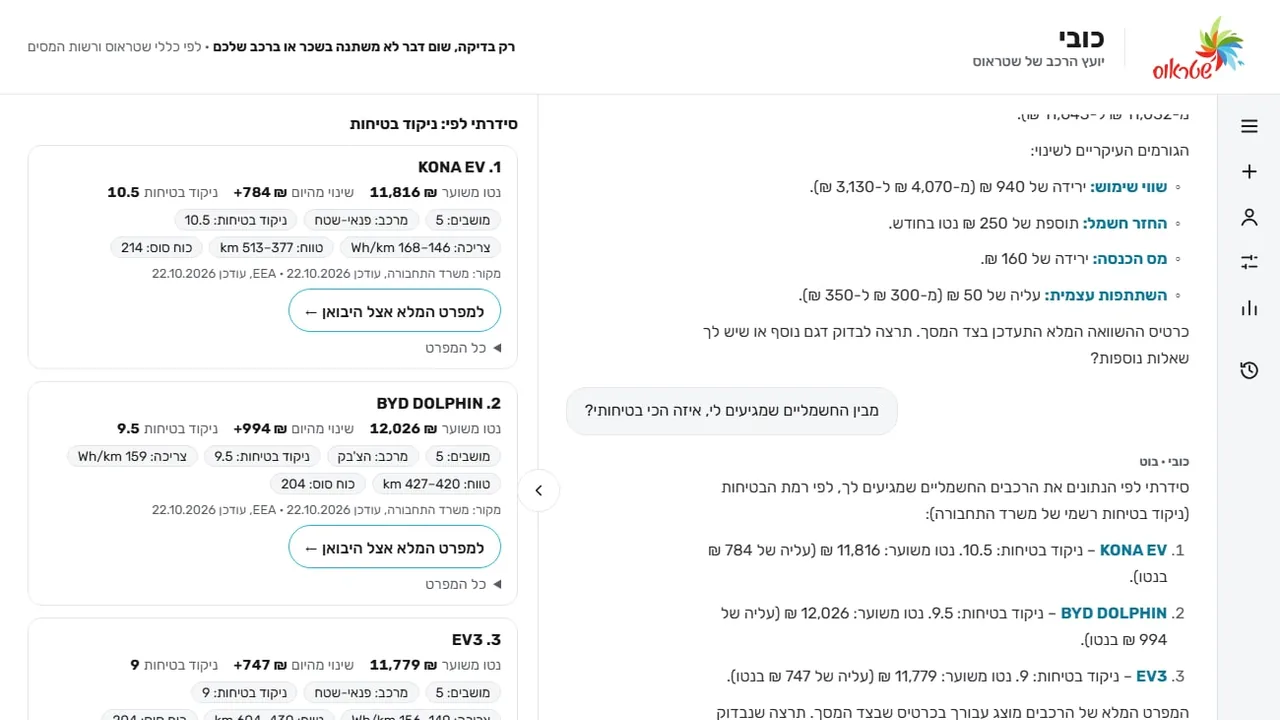
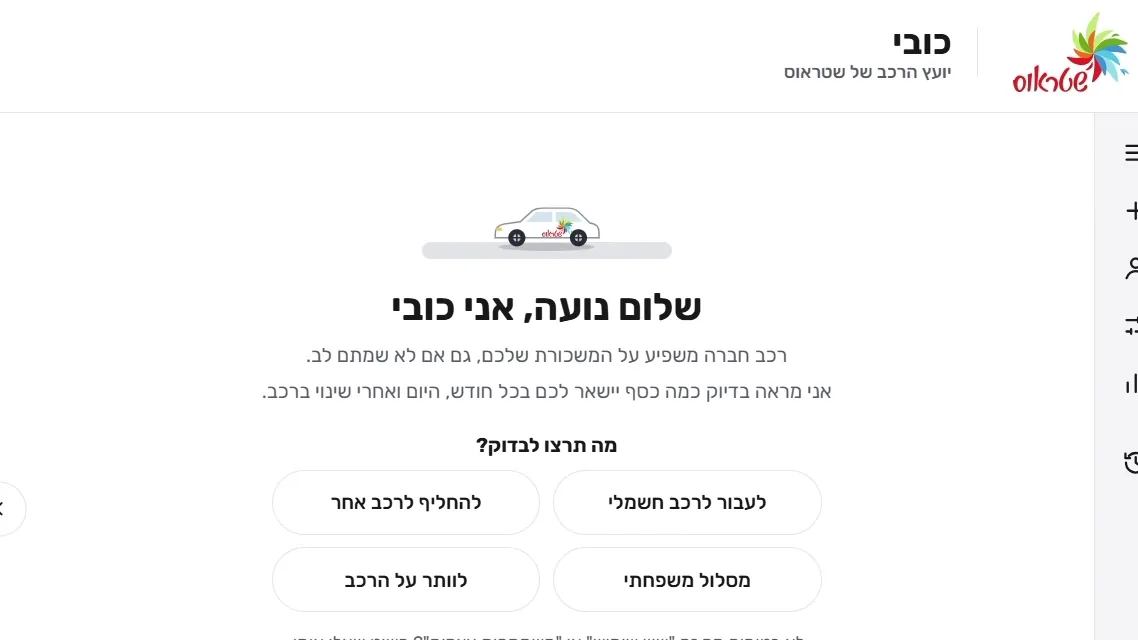
פורטל שני: בלי טקסט למעלה - לוגו ההאקתון קופץ ליד המספרים; כרטיסי הזוכות קטנים יותר; בלי ״איך זה עבד״; הכפתור בפס העליון אומר מה הוא עושה
- למעלה: הלוגו של ההאקתון עם ההנפשה של חלון הכרטיסים (Web Animations, זז גם כשהמערכת כיבתה אנימציות) בצד, חמשת המספרים ושלושת כרטיסי הפסים בצד השני; התג, הכותרת ושני הכפתורים ירדו
- הזוכות: תמונה 160px, שם 19px, שתי שורות, שלוש טכנולוגיות
- ״איך זה עבד״ הוסר מהדף ומהפס העליון
- הפס העליון: ״מחפשים מפתחת AI? דברו איתנו״ - מייל למשרד (במקום ״למעסיקים״)
- תמונה חדשה לפרויקט של תהילה פריד: כרטיס הפתיחה של ״כובי״ מתוך סרטון ההדגמה (״שלום נועה, אני כובי״)

diff --git a/src/app/hackathon-2026/showcase/ui.tsx b/src/app/hackathon-2026/showcase/ui.tsx
@@ -16,6 +16,7 @@ import { Logo } from "@/components/ui";
 import { CHALLENGE_INFO, CHALLENGE_ORDER, COUNTS, SHOWCASE2_PATH as BASE, STATS, awardOf, finalsOf, projectsOf, teamName, type ChallengeKey, type ShowcaseProject, type StatRow } from "@/lib/hackathon-showcase";
 import { CHALLENGES } from "../shared";
 import { CountUp } from "../projects/reveal";
+import { HackathonLogo } from "./logo";
 
 /** The partner's colour - the top rule of its card and of its details panel (the canvas's three). */
 export const COLOR: Record<ChallengeKey, string> = { strauss: "#D81B5C", virology: "#4A4EA3", phoenix: "#923F84" };
@@ -29,6 +30,9 @@ export const WRAP = "max-w-[1288px] mx-auto px-6";
 export const PILL_ON = "bg-[#1B1530] text-white border-[#1B1530]";
 export const PILL_OFF = "bg-white text-[#1B1530] border-[#D9D3E6] hover:border-[#1B1530]";
 export const PILL = "inline-flex items-center gap-1.5 min-h-11 px-[18px] rounded-full border text-[15px] font-semibold outline-none focus-visible:ring-2 focus-visible:ring-[#4A4EA3] transition-colors";
+
+/** The office mailbox, with the subject - the top bar's button and the employers' block share it. */
+export const MAIL_HREF = "mailto:office@opencode.org.il?subject=%D7%94%D7%A4%D7%A8%D7%95%D7%99%D7%A7%D7%98%D7%99%D7%9D%20%D7%A9%D7%9C%20%D7%94%D7%90%D7%A7%D7%AA%D7%95%D7%9F";
 
 /** The heading block of every section: the eyebrow, the h2, an optional line - the same sizes everywhere. */
 export function SectionHead({ eyebrow, title, line, children, className = "" }: { eyebrow: string; title: ReactNode; line?: ReactNode; children?: ReactNode; className?: string }) {
@@ -62,13 +66,11 @@ export function TopBar({ onProjectPage = false }: { onProjectPage?: boolean }) {
           <Link href={anchor("challenges")} className={item}>
             האתגרים
           </Link>
-          <Link href={anchor("about")} className={`${item} hidden sm:block`}>
-            איך זה עבד
-          </Link>
         </nav>
-        <Link href={anchor("employers")} className="inline-flex items-center min-h-11 px-[22px] rounded-lg bg-[#1B1530] text-white text-[15px] font-bold hover:bg-[#2A2244] transition-colors">
-          למעסיקים
-        </Link>
+        {/* the owner, 5/11: ״לא הבנתי מה כפתור המעסיקים אומר״ - the button says what it does */}
+        <a href={MAIL_HREF} className="inline-flex items-center min-h-11 px-[22px] rounded-lg bg-[#1B1530] text-white text-[15px] font-bold hover:bg-[#2A2244] transition-colors" data-testid="sh-contact">
+          מחפשים מפתחת AI? דברו איתנו
+        </a>
       </div>
     </header>
   );
@@ -136,35 +138,21 @@ function Bars({ title, rows, hrefOf }: { title: string; rows: StatRow[]; hrefOf?
 }
 
 /**
- * The top of the page (the owner, 5/11: ״צריך בקצרה דשבורד של נתונים״): the badge, the one-line headline,
- * the two buttons; the five figures; three small cards of bars. Tinted, as the canvas's hero. Short enough
- * that the winners show on the first screen.
+ * The top of the page (the owner, 5/11: ״צריך בקצרה דשבורד של נתונים … כל הטקסט למעלה מיותר … צריך את
+ * הלוגו של ההאקתון עם הנפשה״): the jumping logo on the right, the five figures and three small cards of
+ * bars on the left - no words. Tinted, as the canvas's hero. Short enough that the winners show on the
+ * first screen.
  */
 export function Dashboard() {
   const s = STATS;
   const tech = (name: string) => `${BASE}?t=${encodeURIComponent(name)}#projects`;
   return (
     <section id="numbers" className="bg-[#F7F5FB] scroll-mt-16" data-testid="sh-hero">
-      <div className={`${WRAP} pt-8 pb-8 flex flex-col gap-6`}>
-        <div className="flex flex-wrap items-end justify-between gap-5">
-          <div className="flex-[1_1_720px] min-w-0 flex flex-col gap-3">
-            <span className="inline-flex self-start items-center gap-2 rounded-full bg-white border border-[#E3DDEE] text-[14px] font-bold text-[#B0154B] px-3.5 py-1.5">
-              <span className="w-2 h-2 rounded-full bg-[#D81B5C]" aria-hidden />
-              האקתון AI קוד פתוח 2026 · הפרויקטים
-            </span>
-            <h1 className="text-[30px] sm:text-[40px] font-black leading-[1.1] tracking-[-0.3px] [text-wrap:balance]" data-testid="sh-headline">
-              {COUNTS.projects} מערכות AI עובדות. {COUNTS.people} מפתחות. {COUNTS.challenges} אתגרים אמיתיים.
-            </h1>
-          </div>
-          <div className="flex flex-wrap gap-3">
-            <Link href="#projects" className={BTN_PINK}>
-              לכל הפרויקטים
-            </Link>
-            <Link href="#employers" className={BTN_INK}>
-              למעסיקים
-            </Link>
-          </div>
+      <div className={`${WRAP} pt-8 pb-8 grid grid-cols-1 lg:grid-cols-[280px_1fr] gap-6 lg:gap-10 items-center`}>
+        <div className="flex justify-center lg:justify-start">
+          <HackathonLogo className="w-[260px] lg:w-[280px] max-w-full h-auto" />
         </div>
+        <div className="flex flex-col gap-5 min-w-0">
         <div className="grid grid-cols-2 md:grid-cols-3 lg:grid-cols-5 gap-px bg-[#E3DDEE] border border-[#E3DDEE] rounded-[12px] overflow-hidden" data-testid="sh-stats">
           <StatBox n={COUNTS.projects} label="פרויקטים" href="#projects" />
           <StatBox n={COUNTS.people} label="מפתחות" />
@@ -182,6 +170,7 @@ export function Dashboard() {
               { name: "זוג", count: s.pairs },
             ]}
           />
+        </div>
         </div>
       </div>
     </section>
@@ -289,33 +278,33 @@ export function ProjectCard({ p, eager = false }: { p: ShowcaseProject; eager?: 
   );
 }
 
-/** A winner's card - picture first, the partner's line, the name, the sentence, the technologies, the links. */
+/** A winner's card, kept small (the owner, 5/11): the picture, the partner's line, the name, two lines, three technologies, the links. */
 function WinnerCard({ p }: { p: ShowcaseProject }) {
   const title = teamName(p);
   const href = `${BASE}/${p.k8}`;
   return (
     <article className="flex flex-col h-full bg-white border border-[#ECE8F2] rounded-[14px] overflow-hidden hover:border-[#1B1530] transition-colors" data-testid="sh-winner" data-k8={p.k8} data-ch={p.challenge}>
-      <Link href={href} className="relative block h-[224px] bg-[#F2EFF8] border-b border-[#ECE8F2] overflow-hidden outline-none focus-visible:ring-2 focus-visible:ring-[#4A4EA3]" aria-label={title} tabIndex={-1}>
+      <Link href={href} className="relative block h-[160px] bg-[#F2EFF8] border-b border-[#ECE8F2] overflow-hidden outline-none focus-visible:ring-2 focus-visible:ring-[#4A4EA3]" aria-label={title} tabIndex={-1}>
         {p.image && <Image src={p.image} alt={p.caption ?? title} fill sizes="(min-width: 768px) 420px, 100vw" className="object-cover object-top" priority />}
       </Link>
-      <div className="flex flex-col gap-3 p-6 flex-1">
-        <span className="text-[13px] font-bold" style={{ color: COLOR[p.challenge] }}>
+      <div className="flex flex-col gap-2 p-4 flex-1">
+        <span className="text-[12.5px] font-bold" style={{ color: COLOR[p.challenge] }}>
           זוכת האתגר · {CHALLENGE_INFO[p.challenge].short}
         </span>
-        <h3 className="text-[24px] font-extrabold leading-tight text-[#1B1530]">
+        <h3 className="text-[19px] font-extrabold leading-tight text-[#1B1530]">
           <Link href={href} className="hover:text-[#4A4EA3] hover:underline underline-offset-4">
             {title}
           </Link>
         </h3>
-        <p className="text-[15px] text-[#4E4862] leading-relaxed line-clamp-3 flex-1">{p.blurb}</p>
-        <div className="flex flex-wrap gap-1.5">
-          {p.tech.slice(0, 4).map((t) => (
+        <p className="text-[14px] text-[#4E4862] leading-relaxed line-clamp-2 flex-1">{p.blurb}</p>
+        <div className="flex flex-wrap gap-1">
+          {p.tech.slice(0, 3).map((t) => (
             <Tech key={t} name={t} />
           ))}
         </div>
-        <div className="flex items-center justify-between gap-3 pt-3 border-t border-[#F0EDF5]">
-          <LiveLink p={p} />
-          <ProjectLink p={p} />
+        <div className="flex items-center justify-between gap-3 pt-2.5 border-t border-[#F0EDF5]">
+          <LiveLink p={p} className="text-[14px]" />
+          <ProjectLink p={p} className="text-[14px]" />
         </div>
       </div>
     </article>
@@ -325,9 +314,9 @@ function WinnerCard({ p }: { p: ShowcaseProject }) {
 /** The three winners, right under the dashboard (the owner, 5/11: ״פרויקטים מנצחים״ first, with pictures). */
 export function Winners() {
   return (
-    <section id="featured" className={`${WRAP} pt-14 pb-4 flex flex-col gap-7 scroll-mt-16`} data-testid="sh-winners">
+    <section id="featured" className={`${WRAP} pt-12 pb-2 flex flex-col gap-6 scroll-mt-16`} data-testid="sh-winners">
       <SectionHead eyebrow="הזוכות" title="שלוש זוכות, אחת לכל אתגר" />
-      <div className="grid grid-cols-1 md:grid-cols-3 gap-6">
+      <div className="grid grid-cols-1 md:grid-cols-3 gap-5">
         {CHALLENGE_ORDER.map((k) => {
           const w = finalsOf(k).winner;
           return w ? <WinnerCard key={k} p={w} /> : null;
@@ -405,31 +394,7 @@ export function CompanyDetails({ k, href = "#projects", className = "bg-[#F7F5FB
   );
 }
 
-/** ״איך זה עבד״ - the canvas's four numbered cards, with what really happened, one line each. */
-export function HowItWorked() {
-  const steps: [string, string][] = [
-    ["הרשמה לאתגר", "חברות הקהילה, לבד או כזוג, אתגר אחד משלושה."],
-    ["שבוע של פיתוח", "עם כלי ה-AI שכל אחת בחרה, עד מערכת שרצה בענן."],
-    ["הגשת התוצרים", "קישור למערכת, גיט ציבורי, ארכיטקטורה, סרטון של עד דקה, הפיצ׳ר המקורי."],
-    ["ערב הגמר 28.10", "שלוש עולות לגמר בכל אתגר. שופטות 70, קהל האולם 30."],
-  ];
-  return (
-    <section id="about" className={`${WRAP} pt-22 pb-6 flex flex-col gap-10 scroll-mt-16`} data-testid="sh-about">
-      <SectionHead eyebrow="איך זה עבד" title="מהרשמה לאתגר ועד ערב הגמר" />
-      <div className="grid grid-cols-1 sm:grid-cols-2 lg:grid-cols-4 gap-5">
-        {steps.map(([title, text], i) => (
-          <div key={title} className="flex flex-col gap-2.5 p-6 rounded-[12px] border border-[#ECE8F2] bg-white">
-            <span className="text-[14px] font-extrabold text-[#4A4EA3]">0{i + 1}</span>
-            <h3 className="text-[20px] font-bold text-[#1B1530]">{title}</h3>
-            <p className="text-[15px] leading-relaxed text-[#4E4862]">{text}</p>
-          </div>
-        ))}
-      </div>
-    </section>
-  );
-}
-
-/** One sentence from a participant, with the way to her project - between ״איך זה עבד״ and the employers. */
+/** One sentence from a participant, with the way to her project - between the partners and the employers. */
 export function Quote({ p }: { p: ShowcaseProject | null }) {
   const q = p?.quotes[0];
   if (!p || !q) return null;
@@ -460,7 +425,7 @@ export function Employers() {
           </p>
         </div>
         <div className="flex-[1_1_260px] flex flex-wrap gap-3">
-          <a href="mailto:office@opencode.org.il?subject=%D7%94%D7%A4%D7%A8%D7%95%D7%99%D7%A7%D7%98%D7%99%D7%9D%20%D7%A9%D7%9C%20%D7%94%D7%90%D7%A7%D7%AA%D7%95%D7%9F" className={`${BTN_PINK} min-h-13 px-7 text-[17px]`}>
+          <a href={MAIL_HREF} className={`${BTN_PINK} min-h-13 px-7 text-[17px]`}>
             דברו איתנו · office@opencode.org.il
           </a>
           <Link href="/portal" className={`${BTN_GHOST} min-h-13 px-7 text-[17px]`}>

diff --git a/src/app/hackathon-2026/showcase/page.tsx b/src/app/hackathon-2026/showcase/page.tsx
@@ -2,13 +2,14 @@
 // as a route of its own beside /hackathon-2026/projects so the two can be compared. Since 5/11 the
 // order answers ״אף אחד לא יגלול למטה עד הפרויקטים״: a short numbers dashboard on top (tinted), the
 // three winners with their pictures, the small tiles of every other project with the filter line stuck
-// under the top bar, then the partners, ״איך זה עבד״, one sentence, the employers' call, the footer.
+// under the top bar, then the partners, one sentence, the employers' call, the footer. Round 5 (5/11):
+// no words on top - the jumping logo and the numbers; no ״איך זה עבד״.
 // PUBLIC, not indexed while it is a comparison.
 import type { Metadata } from "next";
 import { Suspense } from "react";
 import { COUNTS, PROJECTS, projectByK8, topTech } from "@/lib/hackathon-showcase";
 import { Explorer } from "./explorer";
-import { Dashboard, Employers, Footer, HowItWorked, Quote, TopBar, WRAP, Winners } from "./ui";
+import { Dashboard, Employers, Footer, Quote, TopBar, WRAP, Winners } from "./ui";
 
 const DESCRIPTION = `${COUNTS.projects} מערכות AI עובדות שבנו ${COUNTS.people} מפתחות מקהילת קוד פתוח בשבוע, לשלושה ארגונים אמיתיים: שטראוס, הפניקס והמעבדה המרכזית לנגיפים. לכל פרויקט - הסרטון, המערכת החיה בענן, הטכנולוגיות ומשפט אישי.`;
 
@@ -19,7 +20,7 @@ export const metadata: Metadata = {
   openGraph: { title: "הפרויקטים של האקתון AI קוד פתוח 2026", description: DESCRIPTION, images: [{ url: "/hackathon-2026/logo-hackathon.png" }] },
 };
 
-/** The sentence between ״איך זה עבד״ and the employers - יפה חבקין's, from the booklet. */
+/** The sentence between the partners and the employers - יפה חבקין's, from the booklet. */
 const QUOTE_K8 = "1da3dbcf";
 
 export default function ShowcasePage() {
@@ -31,7 +32,6 @@ export default function ShowcasePage() {
       <Suspense fallback={<div className={`${WRAP} py-16 text-center text-[#6B6580]`}>טוענת את הפרויקטים…</div>}>
         <Explorer projects={PROJECTS} topTech={topTech(14)} />
       </Suspense>
-      <HowItWorked />
       <Quote p={projectByK8(QUOTE_K8)} />
       <Employers />
       <Footer />

diff --git a/src/app/hackathon-2026/showcase/logo.tsx b/src/app/hackathon-2026/showcase/logo.tsx
@@ -1,0 +1,40 @@
+"use client";
+// The hackathon's logo with motion (the owner, 5/11: ״צריך את הלוגו של ההאקתון עם הנפשה״) - the jump of the
+// finals' tickets popup, through the Web Animations API so it moves even where the system turned CSS
+// animations off (her machine, by the look of her screenshots).
+import Image from "next/image";
+import { useEffect, useRef } from "react";
+
+const JUMP: Keyframe[] = [
+  { transform: "translateY(0) rotate(0deg) scale(1)", offset: 0 },
+  { transform: "translateY(-26px) rotate(-10deg) scale(1.12)", offset: 0.08 },
+  { transform: "translateY(0) rotate(8deg) scale(0.95)", offset: 0.18 },
+  { transform: "translateY(-15px) rotate(-7deg) scale(1.08)", offset: 0.28 },
+  { transform: "translateY(0) rotate(5deg) scale(0.98)", offset: 0.38 },
+  { transform: "translateY(-6px) rotate(-2deg) scale(1.02)", offset: 0.46 },
+  { transform: "translateY(0) rotate(0deg) scale(1)", offset: 0.52 },
+  { transform: "translateY(0) rotate(0deg) scale(1)", offset: 1 },
+];
+
+export function HackathonLogo({ className = "" }: { className?: string }) {
+  const ref = useRef<HTMLImageElement | null>(null);
+  useEffect(() => {
+    const el = ref.current;
+    if (!el || typeof el.animate !== "function") return;
+    const a = el.animate(JUMP, { duration: 3200, iterations: Infinity, easing: "ease-in-out", delay: 500 });
+    return () => a.cancel();
+  }, []);
+  return (
+    <Image
+      ref={ref}
+      src="/hackathon-2026/logo-hackathon.png"
+      alt="האקתון AI 2026 - לפצח את קוד הכניסה"
+      width={1600}
+      height={934}
+      priority
+      className={className}
+      style={{ transformOrigin: "50% 70%" }}
+      data-testid="sh-logo"
+    />
+  );
+}
